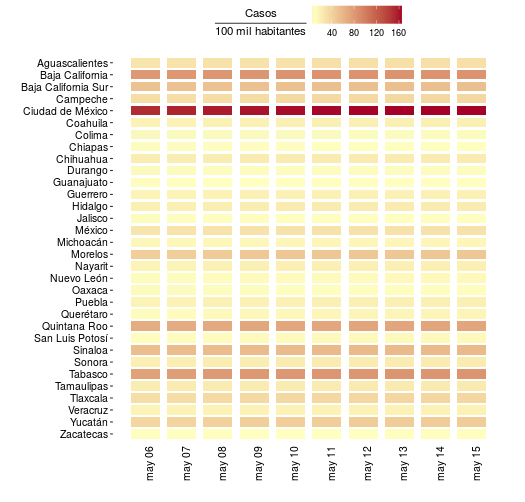
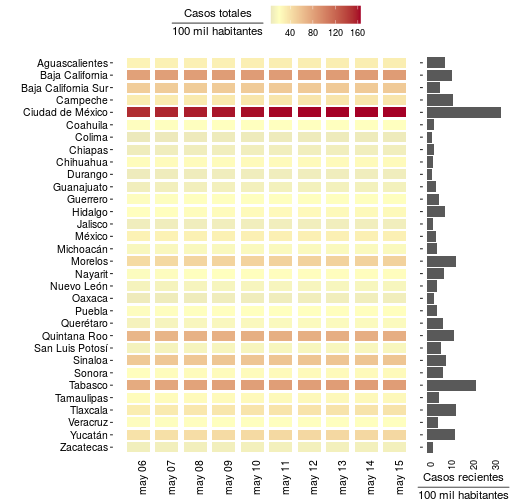
Mejor	texto

diff --git a/content/estados/estados_100mil.md b/content/estados/estados_100mil.md
@@ -6,12 +6,18 @@ descripcion: "<p>Los lugares con más población siempre tienen más
 casos y por lo tanto el número total de casos no refleja
 la fase de la epidemia. En cambio, la cantidad de casos
 normalizada por población es un mejor indicador de qué tanto
-ha penetrado la epidemia en una región. Además, los casos normalmente
-se registran días después de que los pacientes muestran síntomas.</p>
-<p>Esta gráfica muestra el número de casos que mostraron
-síntomas por cada 100 mil
-habitantes (proyección de la CONAPO para 2020) en los 10 últimos días en las
-32 entidades federativas del país.</p>"
+ha penetrado la epidemia en una región.</p>
+
+<p>Esta gráfica muestra, para los últimos 10 días, el número de casos
+acumulados (basado en la fecha de inicio de síntomas) por cada 100 mil
+habitantes (proyección de la CONAPO para 2020) en las 32 entidades federativas
+del país.</p>
+
+<p>Desde el punto de vista de riesgo de contagio, los casos recientes
+son más importantes porque indican la cantidad de gente que es contagiosa.
+La parte derecha de la imagen también muestra el número de casos
+en los últimos 14 días (recientes) por cada 100 mil habitantes para cada
+estado.</p>"
 imagen: "imagenes/casos_100mil_estados.png"
 imagen2x: "imagenes/casos_100mil_estados@2x.png"
 alt: ''
